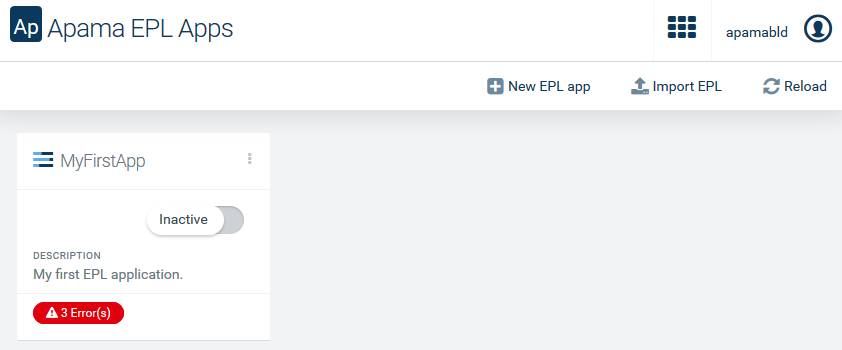
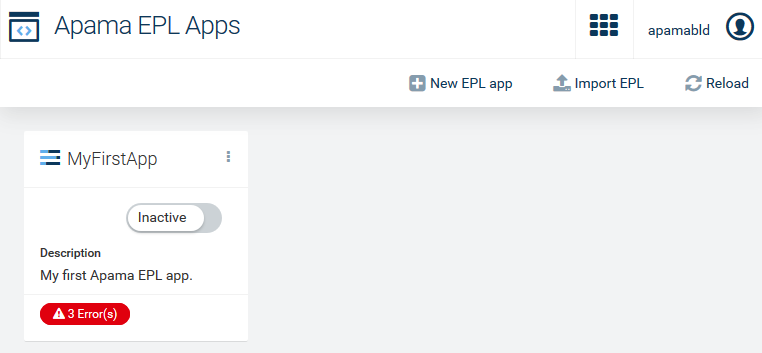
Rob said: "The apps that get run by Apama EPL Apps need to be referred to as EPL apps not as applications. EPL apps are subsets of applications." I've therefore, changed "application" to "apps" in several topics and tried to explain the difference on the Overview page.

diff --git a/content/apama/analytics-introduction-bundle/developing-apps.md b/content/apama/analytics-introduction-bundle/developing-apps.md
@@ -1,85 +1,81 @@
 ---
 weight: 10
-title: Developing applications
+title: Developing apps
 layout: redirect
 ---
 
-You can develop Apama EPL applications in two different ways:
+An Apama EPL app is a monitor (*.mon) file. You can develop EPL apps in two different ways:
 
-* You can use [Apama EPL Apps](#apama-epl-apps) which is available from Cumulocity IoT's application switcher and develop your applications within Cumulocity IoT.
-* Or you can install Apama on your local machine and then develop your applications in [Software AG Designer](#sag-designer), that is, in a separate environment.
+* You can use [Apama EPL Apps](#apama-epl-apps) which is available from Cumulocity IoT's application switcher and develop your EPL apps within Cumulocity IoT.
+* Or you can install Apama on your local machine and then develop your EPL apps (as monitor files) in [Software AG Designer](#sag-designer), that is, in a separate environment.
 
 See also [Using the Apama Event Processing Language (EPL)](/concepts/realtime/#using-epl) in the *Concepts guide*.
 
-### <a name="apama-epl-apps"></a>Developing applications with Apama EPL Apps
+### <a name="apama-epl-apps"></a>Developing apps with Apama EPL Apps
 
-Apama EPL Apps provides an interface for interactively editing new or existing EPL applications (\*.mon files) as well as importing and activating (deploying) EPL applications. 
+Apama EPL Apps provides an interface for interactively editing new or existing EPL apps (\*.mon files) as well as importing and activating (deploying) EPL apps. 
 
 Any user on the tenant wishing to use Apama EPL Apps will need to be a **CEP Manager**. See [Managing permissions](/users-guide/administration/#managing-permissions) in the *User guide*.
 
-> **Info**: To be able to develop applications with Apama EPL Apps and/or to import them from Software AG Designer into Cumulocity IoT, your tenant needs to be subscribed to both the Apama-ctrl microservice and the Apama EPL Apps web application provided in Cumulocity IoT. If you have Apama Starter or Apama Smart Rules-only, Apama EPL Apps is not available in the application switcher. If you want to have this capability, contact Software AG support. 
+> **Info**: To be able to develop apps with Apama EPL Apps and/or to import monitor files from Software AG Designer into Cumulocity IoT, your tenant needs to be subscribed to both the Apama-ctrl microservice and the Apama EPL Apps web application provided in Cumulocity IoT. If you have Apama Starter or Apama Smart Rules-only, Apama EPL Apps is not available in the application switcher. If you want to have this capability, contact Software AG support. 
 
 **Step 1 - Invoke Apama EPL Apps**
 
 Open the application switcher and click the icon for the **Apama EPL Apps** application.
 
-When you invoke Apama EPL Apps, the EPL application manager is shown first, listing any existing EPL applications. Each application is shown as a card. You can add new EPL applications and manage existing EPL applications from here.
+When you invoke Apama EPL Apps, the EPL app manager is shown first, listing any existing EPL apps. Each app is shown as a card. You can add new EPL apps and manage existing EPL apps from here.
 
 ![Apama EPL Apps](/images/apama/apama-epl-apps-cards.png)
 
-<!--we'll need an up-to-date screenshot later, with the correct icon at the top, some nice names and descriptions on the cards, and at least one card showing an error--> 
-
-Each card that is shown for an application has an actions menu at the top which allows you to edit or remove the application.
+Each card that is shown for an app has an actions menu at the top which allows you to edit or remove the app.
 
 From this page, you can:
 
-* Edit existing EPL applications. Either use the **Edit** command from the actions menu or simply click on the card that is shown for the application. 
+* Edit existing EPL apps. Either use the **Edit** command from the actions menu or simply click on the card that is shown for the app. 
 
-* Create new EPL applications. See below.
+* Create new EPL apps. See below.
 
-* Import EPL applications. If you prefer to develop your application outside of Cumulocity IoT (for example, using Software AG Designer), click **Import EPL** in the top menu bar to upload an Apama application into Apama EPL Apps.
+* Import EPL apps. If you prefer to develop your apps outside of Cumulocity IoT (for example, using Software AG Designer), click **Import EPL** in the top menu bar to upload an Apama monitor (*.mon) file as an app into Apama EPL Apps.
 
-* Deploy existing EPL applications. On the card that is shown for an application, change the mode from **Inactive** to **Active**. For more information, see [Deploying applications](/apama/analytics-introduction/#deploying-apps).
+* Deploy existing EPL apps. On the card that is shown for an app, change the mode from **Inactive** to **Active**. For more information, see [Deploying apps](/apama/analytics-introduction/#deploying-apps).
 
-    When activating an application, any syntax errors are reported back immediately. The error state is shown on the card, helping you to ensure your application is in good shape. Click on the error to display information on what went wrong. It is not possible to activate an application if it has syntax errors. The errors are shown on the card until they have been fixed and the application has been activated again.
+    When activating an app, any syntax errors are reported back immediately. The error state is shown on the card, helping you to ensure your app is in good shape. Click on the error to display information on what went wrong. It is not possible to activate an app if it has syntax errors. The errors are shown on the card until they have been fixed and the app has been activated again.
 
-* Reload all EPL applications. Click **Reload** in the top menu bar to refresh the display to show any changes other users have made since the page loaded, including any errors that have been introduced in the meantime.
+* Reload all EPL apps. Click **Reload** in the top menu bar to refresh the display to show any changes other users have made since the page loaded, including any errors that have been introduced in the meantime.
 
-**Step 2 - Create an EPL application**
+**Step 2 - Create an EPL app**
 
-Click **New EPL app** in the top menu bar. Give the application a unique name. You can also enter a description which will be shown on the card that is created for the new application. 
+Click **New EPL app** in the top menu bar. Give the app a unique name. You can also enter a description which will be shown on the card that is created for the new app. 
 
-The EPL editor is shown next. The EPL code for the new application already contains the typical basic event definitions and utilities that are required for working with Cumulocity IoT. You can adapt them as required for your application. Consult the documentation and samples for more details.
+The EPL editor is shown next. The EPL code for the new app already contains the typical basic event definitions and utilities that are required for working with Cumulocity IoT. You can adapt them as required for your app. Consult the documentation and samples for more details.
 
 ![EPL editor](/images/apama/apama-epl-apps-editor.png)
-
-<!--we'll need an up-to-date screenshot later, with the correct icon at the top, and with appropriate content in the editor--> 
 
 To help you get started, several samples are available. To see them, click **Samples** which is shown to the right of the editor. Click on a sample to see a preview of its contents. You can select part of the sample code and copy it over into your own code using the standard key combinations Ctrl+C and Ctrl+V. You can also use the command buttons to copy the entire code to the clipboard and insert it at an appropriate position in your own code, or to replace all of your existing code with the sample code. 
 
 Using the buttons in the top menu bar, you can undo/redo your last changes in the current session and you can save your changes.
 
-It is also possible to change the mode from **Inactive** to **Active** (or vice versa) in the EPL editor. Again, when there is an error in your EPL code, it is not possible to activate the application. The errors are highlighted within the code.
+It is also possible to change the mode from **Inactive** to **Active** (or vice versa) in the EPL editor. Again, when there is an error in your EPL code, it is not possible to activate the app. The errors are highlighted within the code.
 
-Keep the following in mind while creating (or importing) an EPL application: When an EPL application is activated, it is possible that some EPL operations are performed that are not allowed for the user who created the application. For example, you may only have ADMIN permission for "CEP management" for injecting EPL and creating Analytics Builder models. However, when the application is activated, it is also possible that the injected EPL can create or clear an alarm and that an Analytics Builder model can create an operation.
+Keep the following in mind while creating (or importing) an EPL app: When an EPL app is activated, it is possible that some EPL operations are performed that are not allowed for the user who created the app. For example, you may only have ADMIN permission for "CEP management" for injecting EPL and creating Analytics Builder models. However, when the app is activated, it is also possible that the injected EPL can create or clear an alarm and that an Analytics Builder model can create an operation.
 
 > **Side note:** Be aware that the EPL editor makes use of a standard web component. It provides many generic developer functions, some of which are not relevant to EPL, including but not limited to Quick Fix and Show Hover.
 
-Click **X** in the top menu bar to leave the EPL editor and thus to return to the list of EPL applications.
+Click **X** in the top menu bar to leave the EPL editor and thus to return to the list of EPL apps.
 
 <!--I wanted to use ""/images/apama/apama-epl-apps-exit-button.png", but it looks like it's not possible to define inline images. This is shown in a line of its own. So I'm using the bold X instead.-->
 
 > **Caution:** All unsaved changes are lost when you navigate to a different URL or close the browser window.
 
-**Step 3 - Test the EPL application**
+**Step 3 - Test the EPL app**
 
-Once your application is activated, you should be able to see the results of it running. This may include sending measurements, receiving data, creating alarms, and logging in the Apama-ctrl microservice. For information on how to check the log files of the Apama-ctrl microservice, see [Managing applications](/users-guide/administration/#managing-applications) in the *User guide*.
+Once your app is activated, you should be able to see the results of it running. This may include sending measurements, receiving data, creating alarms, and logging in the Apama-ctrl microservice. For information on how to check the log files of the Apama-ctrl microservice, see [Managing applications](/users-guide/administration/#managing-applications) in the *User guide*.
 
-See also [Deploying applications](/apama/analytics-introduction/#deploying-apps).
+See also [Deploying apps](/apama/analytics-introduction/#deploying-apps).
 
-### <a name="sag-designer"></a>Developing applications with Software AG Designer
+### <a name="sag-designer"></a>Developing apps with Software AG Designer
 
-Software AG Designer provides a full development environment and is the tool of choice when you have a complex EPL application. When your EPL application is ready, you then need to import it into Cumulocity IoT.
+Software AG Designer provides a full development environment and is the tool of choice when you have a complex EPL application. When your EPL app (that is, the monitor file) is ready, you then need to import it into Cumulocity IoT.
 
 **Step 1 - Install Apama**
 
@@ -95,7 +91,7 @@ Once installed, create an Apama project in Software AG Designer and enable it fo
 
 **Step 3 - Add Apama bundles to the project**
 
-Add the following Apama bundles to the newly created Apama project. These are required by Cumulocity IoT so that it can activate your application. For instructions on how to add bundles to a project, refer to [Adding bundles to projects](https://documentation.softwareag.com/onlinehelp/Rohan/Apama/v10-5/apama10-5/apama-webhelp/index.html#page/apama-webhelp%2Fco-UsiApaStu_adding_bundles_to_projects.html) in the Apama documentation.
+Add the following Apama bundles to the newly created Apama project. These are required by Cumulocity IoT so that it can activate your app. For instructions on how to add bundles to a project, refer to [Adding bundles to projects](https://documentation.softwareag.com/onlinehelp/Rohan/Apama/v10-5/apama10-5/apama-webhelp/index.html#page/apama-webhelp%2Fco-UsiApaStu_adding_bundles_to_projects.html) in the Apama documentation.
 
 * **Cumulocity IoT > Event Definitions for Cumulocity** <br>
 Provides event APIs required for sending and receiving data to/from Cumulocity IoT.
@@ -109,20 +105,20 @@ Required to access all the methods of the Time Format plug-in. Useful for format
 Exposes predefined generic events used by the HTTP client connectivity plug-in.
 * **Automatic onApplicationInitialized**<br>
 This starts all connectivity plug-ins immediately on start up.
-* **HTTP Client > JSON with generic request/response event definitions**<br>Allows EPL applications to make HTTP calls.
-* **Cumulocity IoT > Cumulocity Client**<br>Exposes the Cumulocity IoT client to EPL applications.
+* **HTTP Client > JSON with generic request/response event definitions**<br>Allows EPL apps to make HTTP calls.
+* **Cumulocity IoT > Cumulocity Client**<br>Exposes the Cumulocity IoT client to EPL apps.
 
-The bundles above are the only ones that are permissible in an EPL application, so be careful not to add any other bundles or your application may not work when activated in Cumulocity IoT.
+The bundles above are the only ones that are permissible in an EPL app, so be careful not to add any other bundles or your app may not work when activated in Cumulocity IoT.
 
-**Step 4 - Create an EPL application**
+**Step 4 - Create a monitor file**
 
-To create a new Apama EPL file, refer to [Creating new monitor files for EPL applications](https://documentation.softwareag.com/onlinehelp/Rohan/Apama/v10-5/apama10-5/apama-webhelp/index.html#page/apama-webhelp%2FWIZARD_NEW_MONITORSCRIPT.html) in the Apama documentation. 
+To create a new Apama monitor file, refer to [Creating new monitor files for EPL applications](https://documentation.softwareag.com/onlinehelp/Rohan/Apama/v10-5/apama10-5/apama-webhelp/index.html#page/apama-webhelp%2FWIZARD_NEW_MONITORSCRIPT.html) in the Apama documentation. 
 
-Before you import the newly created EPL application to Cumulocity IoT and activate it there, you might want to test if this application works as expected from within Software AG Designer.
+Before you import the newly created monitor file as an EPL app into Cumulocity IoT and activate it there, you might want to test if the monitor file works as expected from within Software AG Designer.
 
 For further information, see [The Cumulocity IoT Transport Connectivity Plug-in](https://documentation.softwareag.com/onlinehelp/Rohan/Apama/v10-5/apama10-5/apama-webhelp/index.html#page/apama-webhelp%2Fco-ConApaAppToExtCom_the_cumulocity_connectivity_plug_in.html) in the Apama documentation.
 
-**Step 5 - Run and test the EPL application**
+**Step 5 - Run and test the monitor file**
 
 When running the project locally, you will need to provide your Cumulocity IoT credentials in the project configuration. Configure the credentials in the *CumulocityIoT.properties* file under the Cumulocity IoT client. For example:
 
@@ -143,4 +139,4 @@ CUMULOCITY_TENANT=my_custom_tenant
 
 You can now proceed with testing your EPL in Software AG Designer.
 
-Once the EPL application is ready, refer to [Deploying applications](/apama/analytics-introduction/#deploying-apps) to find out how to deploy it to Cumulocity IoT.
+Once the EPL app is ready, refer to [Deploying apps](/apama/analytics-introduction/#deploying-apps) to find out how to deploy it to Cumulocity IoT.

diff --git a/content/apama/troubleshooting-bundle/alarms.md b/content/apama/troubleshooting-bundle/alarms.md
@@ -109,7 +109,7 @@ This alarm is raised whenever the Apama-ctrl microservice switches to Safe mode.
 - Alarm text: Apama has exited unexpectedly. As a precaution, user-provided EPL, Analytics Builder models and extensions that might have caused this have been disabled. Refer to the audit log for more details. Please check any recent alarms, or contact support or your administrator.
 - Alarm severity: CRITICAL
 
-Safe mode is a state where Apama-ctrl deactivates all Apama Analytics Builder models, extensions in Apama Analytics Builder, and EPL applications. Apama-ctrl raises an alarm and adds audit log entries with details on all deactivated models, extensions and EPL applications. This is triggered when the correlator encounters a crash that may occur because of several reasons, such as running out of memory, uncaught exceptions in activated EPL files, license expiry, etc. To prevent an infinite loop of Apama-ctrl restarts followed by a correlator crash (mostly likely due to a problem with activated EPL files), the microservice checks on every restart if it has restarted in the last 20 minutes. If yes, the microservice considers the restart as a crash and enables Safe mode for Apama-ctrl. Otherwise, it treats the restart as a normal restart. 
+Safe mode is a state where Apama-ctrl deactivates all Apama Analytics Builder models, extensions in Apama Analytics Builder, and EPL apps. Apama-ctrl raises an alarm and adds audit log entries with details on all deactivated models, extensions and EPL apps. This is triggered when the correlator encounters a crash that may occur because of several reasons, such as running out of memory, uncaught exceptions in activated EPL files, license expiry, etc. To prevent an infinite loop of Apama-ctrl restarts followed by a correlator crash (mostly likely due to a problem with activated EPL files), the microservice checks on every restart if it has restarted in the last 20 minutes. If yes, the microservice considers the restart as a crash and enables Safe mode for Apama-ctrl. Otherwise, it treats the restart as a normal restart. 
 
 If any user is manually stopping or restarting the microservice within 20 minutes, even though it is not a crash, the microservice treats this as a crash and enables Safe mode, even if everything is otherwise fine.
 
@@ -121,16 +121,16 @@ To diagnose the cause of a correlator crash, you can try the following:
 
 - Check the Apama EPL Apps memory profiler, by making a REST request to */service/cep/diagnostics/eplMemoryProfiler* (available as of Apama EPL Apps 10.5.7) for any memory leaks.
 
-    Note that you have to re-activate the EPL applications that were active before as the Apama-ctrl microservice loses information about the previous microservice instance when it restarts due to Safe mode. To replicate the previous scenario, run the EPL applications and process some events to trigger a leak and then use the memory profiler to check for any memory leaks.
+    Note that you have to re-activate the EPL apps that were active before as the Apama-ctrl microservice loses information about the previous microservice instance when it restarts due to Safe mode. To replicate the previous scenario, run the EPL apps and process some events to trigger a leak and then use the memory profiler to check for any memory leaks.
 
 - Check the microservice logs for any exceptions by downloading the diagnostics overview ZIP file as described in [Downloading diagnostics and logs](#diagnostics-download). In the downloaded ZIP file, you can find the logs under */diagnostics/*.
   
-    As mentioned in the above point, re-activate the EPL applications and Analytics Builder models that were active before and then check the logs.
+    As mentioned in the above point, re-activate the EPL apps and Analytics Builder models that were active before and then check the logs.
   
 - Also check for license expiry.
 - Check the audit logs.
 
-In Safe mode, all previously active Apama Analytics Builder models and Apama EPL applications are deactivated and must be manually re-activated.
+In Safe mode, all previously active Apama Analytics Builder models and Apama EPL apps are deactivated and must be manually re-activated.
 
 #### <a name="apama_ctrl_starter"></a>Deactivating models in Apama Starter
 
@@ -166,7 +166,7 @@ Third variant:
 - Alarm text: Apama is using 90% of available memory (&lt;totalMemory&gt;). Your apps will be in danger of crashing. Have created 5 diagnostics snapshots, not creating any more, refer to past alarms.
 - Alarm severity: WARNING
 
-Running Apama EPL Apps (and to a lesser extent, smart rules and Analytics Builder) consumes memory, the amount will depend a lot on the nature of the application running. The memory usage should be approximately constant for a given set of applications, but it is possible to create a "memory leak", particularly in an EPL file or a custom block. The Apama-ctrl microservice monitors memory and raises an alarm with WARNING severity if the 90% memory limit is reached along with the diagnostics overview ZIP file and saves it to the files repository (as mentioned in the alarm text). 
+Running Apama EPL Apps (and to a lesser extent, smart rules and Analytics Builder) consumes memory, the amount will depend a lot on the nature of the app running. The memory usage should be approximately constant for a given set of apps, but it is possible to create a "memory leak", particularly in an EPL file or a custom block. The Apama-ctrl microservice monitors memory and raises an alarm with WARNING severity if the 90% memory limit is reached along with the diagnostics overview ZIP file and saves it to the files repository (as mentioned in the alarm text). 
 
 Apama-ctrl generates the diagnostics overview ZIP files with the following conditions:
 
@@ -174,7 +174,7 @@ Apama-ctrl generates the diagnostics overview ZIP files with the following condi
 - A maximum of 5 diagnostics overview ZIP files from its start time until it stops.
 - Overall, it can generate a maximum of 20 ZIP files per Cumulocity IoT tenant, beyond which it keeps deleting the oldest ZIP files during its startup process.
 
-To diagnose high-memory-consuming models and EPL applications, you can try the following (it could be listener leaks, excessive state being stored or spawned monitors leaking, etc.):
+To diagnose high-memory-consuming models and EPL apps, you can try the following (it could be listener leaks, excessive state being stored or spawned monitors leaking, etc.):
 
 - Download the automatically generated diagnostics overview ZIP file (refer to the alarm text for its location) and look at *correlator/inspect.json* and *correlator/status.json* for the number of listeners (this number may be large in the case of a listener leak). Note that this is only an overview and excludes the EPL memory profile output.
 
@@ -257,11 +257,11 @@ Apama-ctrl generates the following alarm for the above example:
 
 You can diagnose the issue by the monitor name and line number given in the alarm. 
 
-For more details, you can also check the Apama logs if the tenant has the "microservice hosting" feature enabled. Alarms of this type should be fixed as a priority as these uncaught exceptions will terminate the execution of that monitor instance, which will typically mean that your application is not going to function correctly. This might even lead to a correlator crash if not handled properly.
+For more details, you can also check the Apama logs if the tenant has the "microservice hosting" feature enabled. Alarms of this type should be fixed as a priority as these uncaught exceptions will terminate the execution of that monitor instance, which will typically mean that your app is not going to function correctly. This might even lead to a correlator crash if not handled properly.
 
 #### <a name="apama_ctrl_warn"></a>An EPL file blocks the correlator context for too long
 
-If an EPL application has an infinite loop, it may block the correlator context for too long, not letting any other applications run in the same context or, even worse, cause excessive memory pressure (as the correlator is unable to perform any garbage collection cycles) leading to the application running out of memory. The Apama-ctrl microservice identifies such scenarios (the correlator logs warning messages if an application is blocking a context for too long) and raises alarms, so that the user can identify and fix the problem. 
+If an EPL app has an infinite loop, it may block the correlator context for too long, not letting any other apps run in the same context or, even worse, cause excessive memory pressure (as the correlator is unable to perform any garbage collection cycles) leading to the app running out of memory. The Apama-ctrl microservice identifies such scenarios (the correlator logs warning messages if an app is blocking a context for too long) and raises alarms, so that the user can identify and fix the problem. 
 
 For example, the following monitor blocks the correlator main context:
 

diff --git a/content/apama/analytics-introduction-bundle/deploying-apps.md b/content/apama/analytics-introduction-bundle/deploying-apps.md
@@ -1,28 +1,28 @@
 ---
 weight: 20
-title: Deploying applications
+title: Deploying apps
 layout: redirect
 ---
 
-There are two distinct approaches to deploy Apama applications to Cumulocity IoT:
+There are two distinct approaches to deploy Apama apps to Cumulocity IoT:
 
-* You can [develop or import a single \*.mon file with Apama EPL Apps](#single-mon-file). This is the simplest mechanism for deploying an Apama application.
+* You can [develop or import a single \*.mon file with Apama EPL Apps](#single-mon-file). This is the simplest mechanism for deploying an Apama app.
 * Or you can [build a custom microservice](#deploying-as-microservice). In this case, more complex Apama projects can be built using the Cumulocity IoT Microservice SDK. This needs to be developed in Software AG Designer and then uploaded into Cumulocity IoT.
 
-> **Info:** In Apama EPL Apps, the term "activate" is used for deploying an application.
+> **Info:** In Apama EPL Apps, the term "activate" is used for deploying an app.
 
 
-### <a name="single-mon-file"></a>Deploying Apama applications as single \*.mon files with Apama EPL Apps
+### <a name="single-mon-file"></a>Deploying Apama apps as single \*.mon files with Apama EPL Apps
 
 >**Info**: To be able to deploy single \*.mon files with Apama EPL Apps, your tenant needs to be subscribed to both the Apama-ctrl microservice and the Apama EPL Apps web application provided in Cumulocity IoT. If you have Apama Starter or Apama Smart Rules-only, Apama EPL Apps is not available in the application switcher. If you want to have this capability, contact Software AG support.
 
-When an Apama EPL application is activated in Cumulocity IoT, each \*.mon file is assigned a unique package name. This prevents conflicts when multiple modules are activated. For this reason, you should not specify a `package` statement in the \*.mon files. If you need to share events between different parts of your application, then write the event definitions and monitors that use it in a single \*.mon file.
+When an Apama EPL app (that is, a \*.mon file) is activated in Cumulocity IoT, the \*.mon file is assigned a unique package name. This prevents conflicts when multiple modules are activated. For this reason, you should not specify a `package` statement in a \*.mon file. If you need to share events between different parts of your application, then write the event definitions and monitors that use it in a single \*.mon file.
 
-There is a restricted set of utilities and base events available for your EPL application. At the time of writing, these include the **Time Format** and **HTTP Client > JSON with generic request/response event definitions** bundles. 
+There is a restricted set of utilities and base events available for your EPL app. At the time of writing, these include the **Time Format** and **HTTP Client > JSON with generic request/response event definitions** bundles. 
 
-When any EPL application signals a runtime error, this will be raised as an alarm. Runtime errors include uncaught exceptions, as well as any explicit logging of warnings and errors that your EPL application chooses to do. Health issues that relate to the Apama runtime in general will also be raised as alarms.
+When any EPL app signals a runtime error, this will be raised as an alarm. Runtime errors include uncaught exceptions, as well as any explicit logging of warnings and errors that your EPL app chooses to do. Health issues that relate to the Apama runtime in general will also be raised as alarms.
 
-For more detailed diagnostics of the Apama runtime and any active EPL applications, you can look at the logs for the Apama-ctrl microservice. See [Managing applications](/users-guide/administration/#managing-applications) in the *User guide* for more information on log files. However, some familiarity with Apama is necessary to get the most out of an Apama log file.
+For more detailed diagnostics of the Apama runtime and any active EPL apps, you can look at the logs for the Apama-ctrl microservice. See [Managing applications](/users-guide/administration/#managing-applications) in the *User guide* for more information on log files. However, some familiarity with Apama is necessary to get the most out of an Apama log file.
 
 ### <a name="deploying-as-microservice"></a>Deploying Apama applications as microservices
 
@@ -62,7 +62,7 @@ Specific permissions are required by the microservice to start up and work prope
 
 #### To deploy an Apama application as a microservice
 
-1. Develop your Cumulocity IoT application in Software AG Designer in the usual way. 
+1. Develop your application in Software AG Designer in the usual way. 
    
 2. You can use Apama's Docker support to turn the entire project into a microservice. In the **Project Explorer** view, right-click the project and select **Apama > Add Docker Support**, which will add a Dockerfile to the root of your project directory. 
 

diff --git a/content/apama/troubleshooting-bundle/diagnostics-download.md b/content/apama/troubleshooting-bundle/diagnostics-download.md
@@ -4,11 +4,11 @@ title: Downloading diagnostics and logs
 layout: redirect
 ---
 
-If a user has READ permission for "CEP management", then two links for downloading diagnostics information are available in both the Apama EPL Apps and Apama Analytics Builder web applications: one for downloading basic diagnostics information (the **Diagnostics** link) and another one for downloading enhanced (more resource-intensive) diagnostics information (the **Enhanced** link). These links are shown at the bottom of the web application's starting page (that is, in the EPL application manager and in the model manager). 
+If a user has READ permission for "CEP management", then two links for downloading diagnostics information are available in both the Apama EPL Apps and Apama Analytics Builder web applications: one for downloading basic diagnostics information (the **Diagnostics** link) and another one for downloading enhanced (more resource-intensive) diagnostics information (the **Enhanced** link). These links are shown at the bottom of the web application's starting page (that is, in the EPL app manager and in the model manager). 
 
-It may be useful to capture this diagnostics information when experiencing problems, or for debugging EPL applications. It is also useful to provide to support if you are filing a support ticket. 
+It may be useful to capture this diagnostics information when experiencing problems, or for debugging EPL apps. It is also useful to provide to support if you are filing a support ticket. 
 
-You can see a version number in the EPL application manager and in the model manager. It is shown next to the above links.
+You can see a version number in the EPL app manager and in the model manager. It is shown next to the above links.
 
 Basic diagnostics information is provided in a ZIP file named *diagnostic-overview&lt;timestamp&gt;.zip* and includes the following information (this should be typically a few Megabytes, and be generated in about 5 seconds):
 
@@ -18,7 +18,7 @@ Basic diagnostics information is provided in a ZIP file named *diagnostic-overvi
 
 - Apama-internal diagnostics information (similar to the `engine_watch` and `engine_inspect` command-line tools available in Apama).
 
-- A copy of all EPL applications, smart rules and Analytics Builder models.
+- A copy of all EPL apps, smart rules and Analytics Builder models.
 
 - A copy of any alarms that the Apama-ctrl microservice has raised.
 
@@ -35,7 +35,7 @@ Enhanced diagnostics information is provided in a ZIP file named *diagnostic-enh
 
 What a user can see or do depends on the permissions:
 
-- A user with only READ permission for "CEP management" has read-only access to the Apama EPL applications and Analytics Builder models. 
-- Without ADMIN permission for "CEP management", the user is not able to activate or edit Apama EPL applications or Analytics Builder models.
+- A user with only READ permission for "CEP management" has read-only access to the Apama EPL apps and Analytics Builder models. 
+- Without ADMIN permission for "CEP management", the user is not able to activate or edit Apama EPL apps or Analytics Builder models.
 - If a user has both READ and ADMIN permissions for "CEP management", the user has read-write access and can access the diagnostics information.
-- If a user has only the ADMIN permission for "CEP management" and no READ permission, the user is able to load, edit and deploy Apama EPL applications and Analytics Builder models, but is not able to see or access the diagnostics information.
+- If a user has only the ADMIN permission for "CEP management" and no READ permission, the user is able to load, edit and deploy Apama EPL apps and Analytics Builder models, but is not able to see or access the diagnostics information.

diff --git a/content/apama/apama-release-notes-bundle/10_5_7.md b/content/apama/apama-release-notes-bundle/10_5_7.md
@@ -6,7 +6,7 @@ layout: redirect
 
 ### Improvements in Apama EPL Apps and Apama Analytics Builder
 
-Apama EPL Apps and Apama Analytics Builder now include diagnostic links in the UI that allow developers to download snapshots (ZIP files) of the current microservice status to help with debugging. The diagnostic snapshot contains recent microservice log entries, Apama-internal diagnostics information, a copy of all EPL applications, smart rules and Analytics Builder models, a copy of any alarms that the microservice has raised, CPU profiling, environment information (tenant details, environment variables) and version numbers of the components. For detailed information, see [Troubleshooting and diagnostics](/apama/troubleshooting/) in the *Streaming Analytics guide*.
+Apama EPL Apps and Apama Analytics Builder now include diagnostic links in the UI that allow developers to download snapshots (ZIP files) of the current microservice status to help with debugging. The diagnostic snapshot contains recent microservice log entries, Apama-internal diagnostics information, a copy of all EPL apps, smart rules and Analytics Builder models, a copy of any alarms that the microservice has raised, CPU profiling, environment information (tenant details, environment variables) and version numbers of the components. For detailed information, see [Troubleshooting and diagnostics](/apama/troubleshooting/) in the *Streaming Analytics guide*.
 
 The following example screenshot shows the two new diagnostics links at the bottom of the Apama EPL Apps starting page, one for downloading basic diagnostics information and another for downloading enhanced (more resource-intensive) diagnostics information:
 
@@ -26,6 +26,6 @@ The documentation for [Apama Analytics Builder](https://documentation.softwareag
 
 * The documentation has been updated with the tenant options that are available for simulation mode. See [Keys for simulation mode](https://documentation.softwareag.com/onlinehelp/Rohan/Analytics_Builder/pab10-5-7/apama-pab-webhelp/index.html#page/apamaanalyticsbuilder-webhelp%2Fre-AnaBui_keys_for_simulation_mode.html).
 
-* Diagnostic information is now available to users with READ permission for "CEP management". This includes log file contents, copies of EPL applications, and much more. See [Viewing diagnostics information](https://documentation.softwareag.com/onlinehelp/Rohan/Analytics_Builder/pab10-5-7/apama-pab-webhelp/index.html#page/apamaanalyticsbuilder-webhelp%2Fco-AnaBui_viewing_diagnostics_information.html).
+* Diagnostic information is now available to users with READ permission for "CEP management". This includes log file contents, copies of EPL apps, and much more. See [Viewing diagnostics information](https://documentation.softwareag.com/onlinehelp/Rohan/Analytics_Builder/pab10-5-7/apama-pab-webhelp/index.html#page/apamaanalyticsbuilder-webhelp%2Fco-AnaBui_viewing_diagnostics_information.html).
 
 * Model activations and deactivations are shown in the audit logs of Cumulocity IoT. See [Viewing the audit logs](https://documentation.softwareag.com/onlinehelp/Rohan/Analytics_Builder/pab10-5-7/apama-pab-webhelp/index.html#page/apamaanalyticsbuilder-webhelp%2Fco-AnaBui_viewing_the_audit_logs.html).

diff --git a/content/apama/best-practices-bundle/limitations.md b/content/apama/best-practices-bundle/limitations.md
@@ -8,7 +8,7 @@ Using Apama within the Cumulocity IoT environment necessarily has some restricti
 
 There are a number of ways that assets may be deployed to Apama within Cumulocity IoT and the restrictions vary according to those mechanisms:
 
-* Apama EPL Apps - the simplest mechanism to deploy Apama assets into a fully managed Apama correlator, see [Basic functionality > Deploying applications](/apama/analytics-introduction/#deploying-apps).
+* Apama EPL Apps - the simplest mechanism to deploy Apama assets into a fully managed Apama correlator, see [Basic functionality > Deploying apps](/apama/analytics-introduction/#deploying-apps).
 * Custom microservice – where more complex Apama projects can be built using Cumulocity IoT's Microservice SDK, see [Developing applications > Cumulocity IoT microservices](/concepts/applications#microservices) in the *Concepts guide*.
 
 When designing an Apama solution to be deployed within any form of Cumulocity IoT environment, consider the following points.
@@ -40,7 +40,7 @@ When designing an Apama solution to be deployed within any form of Cumulocity Io
 	* Engine Management API, Event Service API, Scenario Service API.
 	* Connecting to adapters running out-of-process in an IAF.
 	* Dashboards (provided in-the-box with Apama).
-	* Debugging from Software AG Designer. Instead, debug your application running in a local correlator.
+	* Debugging from Software AG Designer. Instead, debug your app running in a local correlator.
 	* Correlator REST interface.
 
 ### Specific Apama limitations when using Apama EPL Apps
@@ -68,6 +68,6 @@ When designing an Apama solution to be deployed within any form of Cumulocity Io
 	* A \*.mon file must not contain a package statement (to do so is an error).
 	* It is not possible to share event definitions between separate \*.mon files.
 	* It is not possible to use Apama queries.
-	* You can only use the bundles listed in [Developing applications with Software AG Designer](/apama/analytics-introduction/#sag-designer). 
+	* You can only use the bundles listed in [Developing apps with Software AG Designer](/apama/analytics-introduction/#sag-designer). 
 
-All of these restrictions are implemented to ensure the smooth and secure operation of Apama applications within Cumulocity IoT.
+All of these restrictions are implemented to ensure the smooth and secure operation of Apama apps within Cumulocity IoT.

diff --git a/content/apama/apama-release-notes-bundle/10_6_6.md b/content/apama/apama-release-notes-bundle/10_6_6.md
@@ -15,7 +15,7 @@ The following improvements are available in this release:
 - `application_queue_full`<br>
   This is a new alarm type which is raised whenever the correlator queue is full, including both input queue and output queue. See [The correlator queue is full](/apama/troubleshooting/#application_queue_full) for more information.
 - `APAMA_CTRL_WARN_<HASHCODE>`<br>
-  This is an enhancement to the existing alarm type. An alarm is now raised when the correlator context is blocked for too long, not letting any other applications run in the same context or, even worse, cause excessive memory pressure (as the correlator is unable to perform any garbage collection cycles) leading to the application running out of memory. See [An EPL file blocks the correlator context for too long](/apama/troubleshooting/#apama_ctrl_warn) for more information.
+  This is an enhancement to the existing alarm type. An alarm is now raised when the correlator context is blocked for too long, not letting any other apps run in the same context or, even worse, cause excessive memory pressure (as the correlator is unable to perform any garbage collection cycles) leading to the app running out of memory. See [An EPL file blocks the correlator context for too long](/apama/troubleshooting/#apama_ctrl_warn) for more information.
 
 ### New tooling for Apama EPL Apps on GitHub
 

diff --git a/content/apama/microservices-bundle/overview.md b/content/apama/microservices-bundle/overview.md
@@ -6,4 +6,4 @@ layout: redirect
 
 Streaming analytics applications using Apama can make use of applications running in other microservices. This section uses a Machine Learning application built with the Zementis microservice, but the steps apply to connecting to any other microservice running inside Cumulocity IoT. This section is going to show you how to create a connection to the Cumulocity IoT platform from within Apama EPL which can be used to invoke other microservices directly. It will then show you how to make a request and decode the result.
 
-We will assume that you are developing an Apama EPL application using the EPL editor that is part of Apama EPL Apps and demonstrate talking to a Machine Learning model loaded through the Zementis microservice. The steps in this guide will also work with any other way you could be creating an Apama application and can be used to interact with any microservice.
+We will assume that you are developing an Apama EPL app using the EPL editor that is part of Apama EPL Apps and demonstrate talking to a Machine Learning model loaded through the Zementis microservice. The steps in this guide will also work with any other way you could be creating an Apama app and can be used to interact with any microservice.

diff --git a/content/apama/overview-analytics-bundle/microservice-and-applications.md b/content/apama/overview-analytics-bundle/microservice-and-applications.md
@@ -3,7 +3,7 @@ weight: 40
 title: Microservice runtime and applications
 layout: redirect
 ---
-Custom Apama applications (individual \*.mon files), Apama Analytics Builder models and smart rules are executed in an Apama-ctrl microservice. This has a per-tenant isolation scope, that is, each subscribed tenant has its own instance of an Apama container with dedicated resources (that is, memory and CPU usage). The container is isolated from other tenants, hence high CPU load or memory issues on other containers are tracked and resourced independently.
+Custom Apama apps (individual \*.mon files), Apama Analytics Builder models and smart rules are executed in an Apama-ctrl microservice. This has a per-tenant isolation scope, that is, each subscribed tenant has its own instance of an Apama container with dedicated resources (that is, memory and CPU usage). The container is isolated from other tenants, hence high CPU load or memory issues on other containers are tracked and resourced independently.
 
 You can use predefined rules (see [Smart rules](/users-guide/cockpit/#smart-rules)), define your own custom rules with Apama EPL Apps, or use Apama Analytics Builder to build analytic models. This requires the following microservices and/or applications:
 

diff --git a/content/apama/overview-analytics-bundle/apama-epl-apps.md b/content/apama/overview-analytics-bundle/apama-epl-apps.md
@@ -3,6 +3,8 @@ weight: 20
 title: Apama EPL Apps
 layout: redirect
 ---
-Apama EPL Apps is a web application which is available from the application switcher. It allows you to develop Apama applications directly within Cumulocity IoT, written in Apama EPL. You can also use it to import existing Apama applications (\*.mon files) into Cumulocity IoT. When you then activate an Apama application, you deploy it to Cumulocity IoT.
+Apama EPL Apps is a web application which is available from the application switcher. It allows you to develop Apama apps (*.mon files) directly within Cumulocity IoT, written in Apama EPL. You can also use it to import existing Apama monitor (\*.mon) files as apps into Cumulocity IoT. When you then activate an Apama app, you deploy it to Cumulocity IoT.
+
+> **Info:** EPL apps and EPL applications are not the same. EPL apps are single *.mon files that are developed and run in Cumulocity IoT. They are thus smaller, slightly more restricted subsets of Apama EPL applications, which can be developed with the full Apama (PAM) product. 
 
 See [Basic functionality](/apama/analytics-introduction/) for further information.

diff --git a/content/apama/microservices-bundle/create-epl-app.md b/content/apama/microservices-bundle/create-epl-app.md
@@ -1,7 +1,7 @@
 ---
 weight: 20
-title: Creating an EPL application
+title: Creating an EPL app
 layout: redirect
 ---
 
-Click the Apama EPL Apps icon in the application switcher to create a new EPL application. Select **New EPL app** to begin. You will now see an EPL editor window in which to create the application which interacts with the Zementis microservice.
+Click the Apama EPL Apps icon in the application switcher to create a new EPL app. Select **New EPL app** to begin. You will now see an EPL editor window in which to create the app which interacts with the Zementis microservice.

diff --git a/content/apama/examples-bundle/misc-applications.md b/content/apama/examples-bundle/misc-applications.md
@@ -1,6 +1,6 @@
 ---
 weight: 50
-title: Miscellaneous sample applications
+title: Miscellaneous sample apps
 layout: redirect
 ---
-Apama EPL Apps provides several sample applications which demonstrate how to use Apama EPL, for example, to query for Cumulocity IoT objects or to create alarms. You can use these samples to build your own applications.
+Apama EPL Apps provides several sample apps which demonstrate how to use Apama EPL, for example, to query for Cumulocity IoT objects or to create alarms. You can use these samples to build your own apps.
